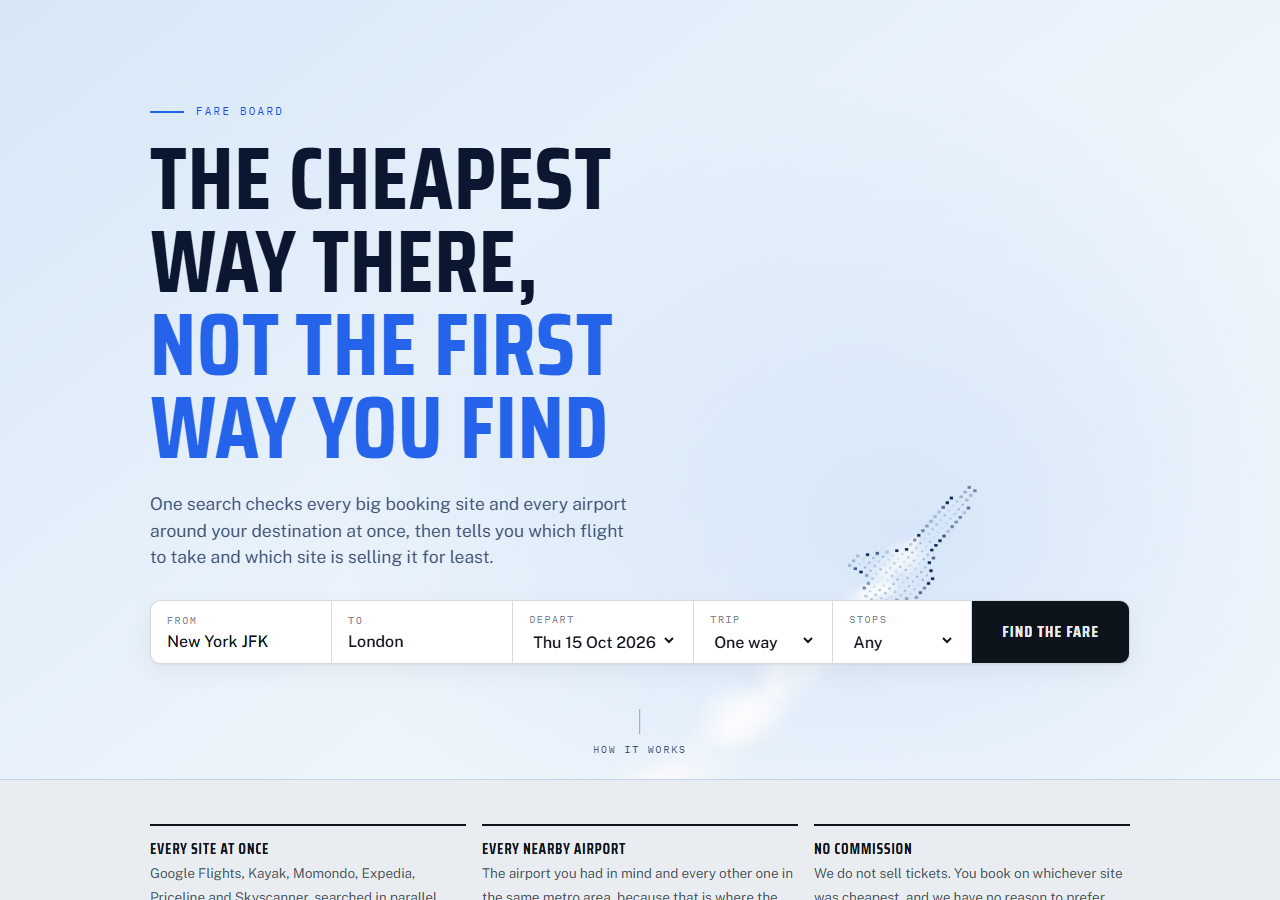
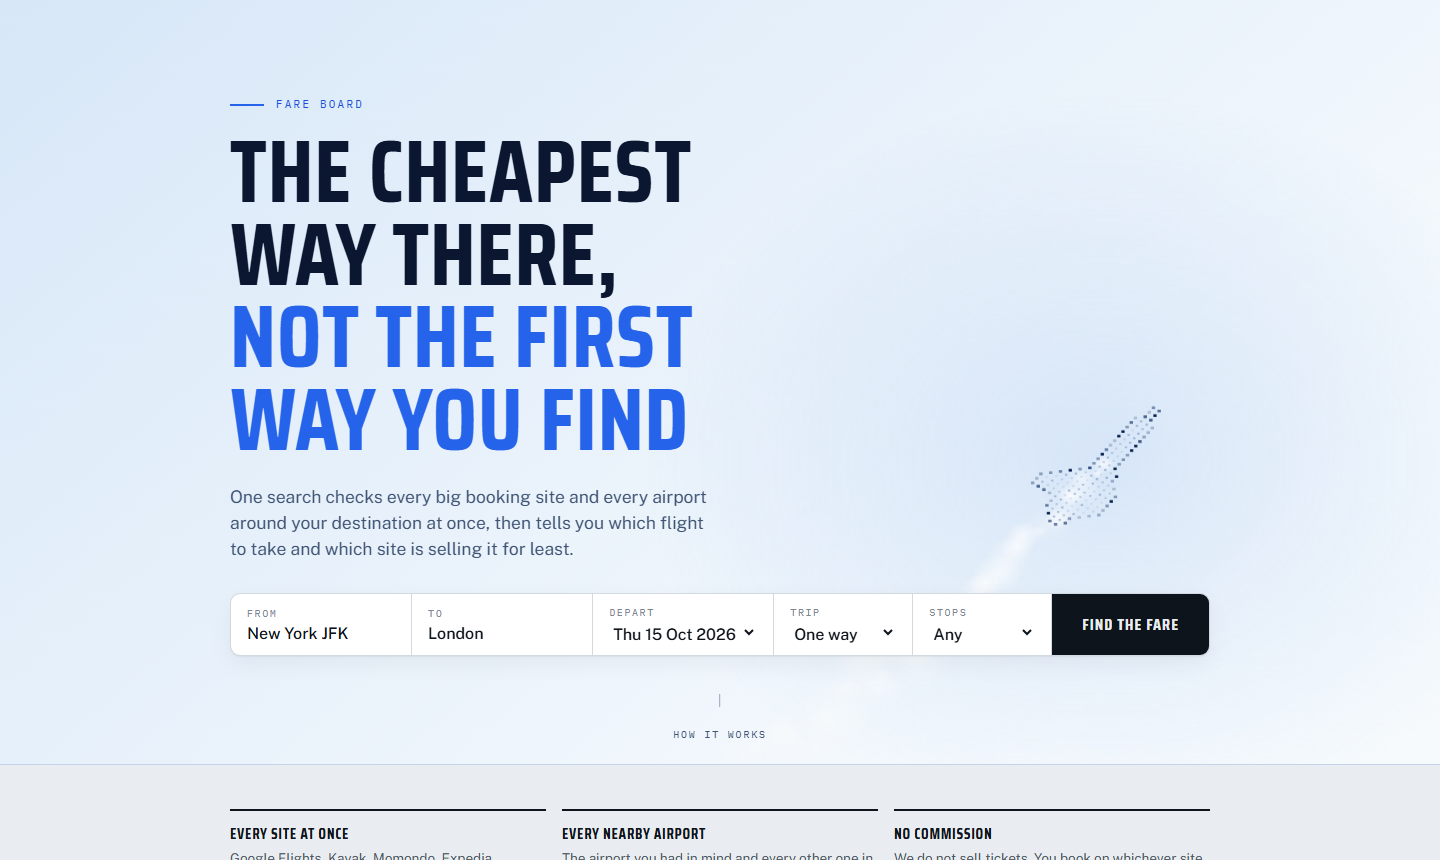
Make the hero loop continuous: no stall at the top, no reset
The pause was not performance at all, it was the animation maths:

  scene(Math.min((t / 780) % 1.15, 1))

u reaches 1 after 780 frames and Math.min then pins it there for the next
117 -- a two second freeze at the top -- before snapping back to the
bottom. Chasing frame cost last time never touched it.

Three fixes:

- Drive by wall clock, not a frame counter. A counter runs at whatever
  rate the display happens to have and lurches every time a frame is
  missed.
- Fade each climb in and out at the seam. The aircraft is already off
  canvas at both ends, so only the trail ever gave the wrap away.
- Fly two climbs half a cycle apart. Fading one alone leaves the sky
  genuinely empty for about 1.5s between an aircraft leaving the top and
  the next entering at the bottom, which still reads as a pause. With two,
  something is always on the way up.

Measured by sampling how much the canvas changes every 200ms across a
20s window: before, 21 of 98 samples showed no change at all and the
longest unbroken still run was 1.4s. After, one sample and 0.2s, with the
change per sample steady rather than spiking.

The second climb cost 20.1ms -> 26.4ms a frame at 1920x1080 dpr2, almost
all of it a second halo -- the largest alpha blend in the frame. Only the
climb actually lighting the sky draws one now, and a slightly smaller one,
which brings it to 17.9ms: better than before the second aircraft existed.

Claude-Session: https://claude.ai/code/session_01EMLBVdECybqViAWRes9Fjs

diff --git a/flight-price-map/trip.html b/flight-price-map/trip.html
@@ -655,8 +655,8 @@ form.finder {
     W = canvas.clientWidth; H = canvas.clientHeight;
     canvas.width = W * dpr; canvas.height = H * dpr;
     ctx.setTransform(dpr, 0, 0, dpr, 0, 0);
-    puffs = Array.from({length: 240}, (_, i) => ({
-      u: i / 240,
+    puffs = Array.from({length: 130}, (_, i) => ({
+      u: i / 130,
       off: (Math.random() - 0.5) * 30,
       rise: (Math.random() - 0.5) * 0.8,
       size: 5 + Math.random() * 15,
@@ -668,13 +668,27 @@ form.finder {
 
   const FAINT = 0.015;      // below this a puff cannot be seen, so skip it
 
-  function scene(u) {
-    ctx.globalAlpha = 1;
-    ctx.drawImage(backdrop, 0, 0, W, H);
+  const fade = u => Math.max(0, Math.min(1, u / 0.12, (1 - u) / 0.14));
+
+  // Two climbs, half a cycle apart. One aircraft alone leaves the sky empty
+  // for a second and a half between leaving the top and the next entering at
+  // the bottom, which reads as a pause and a reset. Overlapping them means
+  // something is always on the way up, and the wrap has nothing to give away.
+  const PHASES = [0, 0.5];
+
+  function flight(u, withHalo) {
+    const seam = fade(u);
+    if (seam < 0.02) return;               // wholly invisible, so no work
 
     const nose = path(u);
-    const R = Math.max(W, H) * 0.38;
-    ctx.drawImage(haloSprite, nose.x - R, nose.y - R, R * 2, R * 2);
+    // The halo is the largest alpha blend in the frame, so only the climb
+    // that is actually lighting the sky draws one; a second, fainter glow
+    // costs as much as the first and is not visible next to it.
+    if (withHalo) {
+      const R = Math.max(W, H) * 0.32;
+      ctx.globalAlpha = seam;
+      ctx.drawImage(haloSprite, nose.x - R, nose.y - R, R * 2, R * 2);
+    }
 
     // Walk back from the newest puff and stop at the first invisible one.
     // They only fade with age, so everything beyond it is invisible too --
@@ -684,7 +698,7 @@ form.finder {
     for (let i = last - 1; i >= 0; i--) {
       const puff = puffs[i];
       const age = (u - puff.u) / Math.max(u, 0.001);
-      const alpha = puff.a * pal.smokeMax * Math.pow(1 - age, 1.5);
+      const alpha = puff.a * pal.smokeMax * Math.pow(1 - age, 1.5) * seam;
       if (alpha < FAINT) break;
       const at = path(puff.u);
       const r = puff.size * (1 + age * 3.2);
@@ -694,7 +708,6 @@ form.finder {
                     at.y + puff.off * 0.4 + puff.rise * age * 90 - r,
                     r * 2, r * 2);
     }
-    ctx.globalAlpha = 1;
 
     // The aircraft, one dot per cell, rotated onto the tangent of the climb.
     const ahead = path(Math.min(u + 0.012, 1));
@@ -704,21 +717,30 @@ form.finder {
       const dx = (cell.c - CX) * DOT, dy = (cell.r - CY) * DOT;
       const x = nose.x + dx * cos - dy * sin;
       const y = nose.y + dx * sin + dy * cos;
-      const twinkle = 0.62 + 0.38 * Math.sin(t / 15 + cell.phase);
+      const twinkle = 0.62 + 0.38 * Math.sin(t / 260 + cell.phase);
       const d = cell.edge ? 3.4 : 2.4;
-      ctx.globalAlpha = (cell.edge ? 0.95 : 0.5) * twinkle;
+      ctx.globalAlpha = (cell.edge ? 0.95 : 0.5) * twinkle * seam;
       ctx.fillStyle = cell.edge ? pal.edge : pal.body;
       ctx.fillRect(x - d / 2, y - d / 2, d, d);
       if (cell.edge && twinkle > 0.92) {
-        ctx.globalAlpha = 0.9;
+        ctx.globalAlpha = 0.9 * seam;
         ctx.fillStyle = pal.core;
         ctx.fillRect(x - 1, y - 1, 2, 2);
       }
     }
+  }
+
+  function scene(u) {
+    ctx.globalAlpha = 1;
+    ctx.drawImage(backdrop, 0, 0, W, H);
+    const at = PHASES.map(phase => (u + phase) % 1);
+    const lead = at.reduce((best, v) => fade(v) > fade(best) ? v : best, at[0]);
+    for (const v of at) flight(v, v === lead);
     ctx.globalAlpha = 1;
   }
 
-  let slow = 0, lastAt = 0;
+  const CYCLE = 17000;              // ms for one climb, wall clock
+  let slow = 0, lastAt = 0, startAt = 0;
 
   function frame(now) {
     const gap = lastAt ? now - lastAt : 16;
@@ -728,8 +750,9 @@ form.finder {
     slow = gap > 34 ? slow + 1 : 0;
     if (slow > 120) { cancelAnimationFrame(raf); raf = null; scene(0.58); return; }
 
-    t += 1;
-    scene(Math.min((t / 780) % 1.15, 1));
+    if (!startAt) startAt = now;
+    t = now - startAt;
+    scene(((now - startAt) / CYCLE) % 1);
     raf = requestAnimationFrame(frame);
   }
 
@@ -738,7 +761,7 @@ form.finder {
     pal = isDark() ? NIGHT : DAY;
     size();
     if (still.matches) { scene(0.58); return; }   // one composed frame
-    slow = 0; lastAt = 0;
+    slow = 0; lastAt = 0; startAt = 0;
     raf = requestAnimationFrame(frame);
   }
 

diff --git a/flight-price-map/sky.py b/flight-price-map/sky.py
@@ -209,8 +209,8 @@ JS = """
     W = canvas.clientWidth; H = canvas.clientHeight;
     canvas.width = W * dpr; canvas.height = H * dpr;
     ctx.setTransform(dpr, 0, 0, dpr, 0, 0);
-    puffs = Array.from({length: 240}, (_, i) => ({
-      u: i / 240,
+    puffs = Array.from({length: 130}, (_, i) => ({
+      u: i / 130,
       off: (Math.random() - 0.5) * 30,
       rise: (Math.random() - 0.5) * 0.8,
       size: 5 + Math.random() * 15,
@@ -222,13 +222,27 @@ JS = """
 
   const FAINT = 0.015;      // below this a puff cannot be seen, so skip it
 
-  function scene(u) {
-    ctx.globalAlpha = 1;
-    ctx.drawImage(backdrop, 0, 0, W, H);
+  const fade = u => Math.max(0, Math.min(1, u / 0.12, (1 - u) / 0.14));
+
+  // Two climbs, half a cycle apart. One aircraft alone leaves the sky empty
+  // for a second and a half between leaving the top and the next entering at
+  // the bottom, which reads as a pause and a reset. Overlapping them means
+  // something is always on the way up, and the wrap has nothing to give away.
+  const PHASES = [0, 0.5];
+
+  function flight(u, withHalo) {
+    const seam = fade(u);
+    if (seam < 0.02) return;               // wholly invisible, so no work
 
     const nose = path(u);
-    const R = Math.max(W, H) * 0.38;
-    ctx.drawImage(haloSprite, nose.x - R, nose.y - R, R * 2, R * 2);
+    // The halo is the largest alpha blend in the frame, so only the climb
+    // that is actually lighting the sky draws one; a second, fainter glow
+    // costs as much as the first and is not visible next to it.
+    if (withHalo) {
+      const R = Math.max(W, H) * 0.32;
+      ctx.globalAlpha = seam;
+      ctx.drawImage(haloSprite, nose.x - R, nose.y - R, R * 2, R * 2);
+    }
 
     // Walk back from the newest puff and stop at the first invisible one.
     // They only fade with age, so everything beyond it is invisible too --
@@ -238,7 +252,7 @@ JS = """
     for (let i = last - 1; i >= 0; i--) {
       const puff = puffs[i];
       const age = (u - puff.u) / Math.max(u, 0.001);
-      const alpha = puff.a * pal.smokeMax * Math.pow(1 - age, 1.5);
+      const alpha = puff.a * pal.smokeMax * Math.pow(1 - age, 1.5) * seam;
       if (alpha < FAINT) break;
       const at = path(puff.u);
       const r = puff.size * (1 + age * 3.2);
@@ -248,7 +262,6 @@ JS = """
                     at.y + puff.off * 0.4 + puff.rise * age * 90 - r,
                     r * 2, r * 2);
     }
-    ctx.globalAlpha = 1;
 
     // The aircraft, one dot per cell, rotated onto the tangent of the climb.
     const ahead = path(Math.min(u + 0.012, 1));
@@ -258,21 +271,30 @@ JS = """
       const dx = (cell.c - CX) * DOT, dy = (cell.r - CY) * DOT;
       const x = nose.x + dx * cos - dy * sin;
       const y = nose.y + dx * sin + dy * cos;
-      const twinkle = 0.62 + 0.38 * Math.sin(t / 15 + cell.phase);
+      const twinkle = 0.62 + 0.38 * Math.sin(t / 260 + cell.phase);
       const d = cell.edge ? 3.4 : 2.4;
-      ctx.globalAlpha = (cell.edge ? 0.95 : 0.5) * twinkle;
+      ctx.globalAlpha = (cell.edge ? 0.95 : 0.5) * twinkle * seam;
       ctx.fillStyle = cell.edge ? pal.edge : pal.body;
       ctx.fillRect(x - d / 2, y - d / 2, d, d);
       if (cell.edge && twinkle > 0.92) {
-        ctx.globalAlpha = 0.9;
+        ctx.globalAlpha = 0.9 * seam;
         ctx.fillStyle = pal.core;
         ctx.fillRect(x - 1, y - 1, 2, 2);
       }
     }
+  }
+
+  function scene(u) {
+    ctx.globalAlpha = 1;
+    ctx.drawImage(backdrop, 0, 0, W, H);
+    const at = PHASES.map(phase => (u + phase) % 1);
+    const lead = at.reduce((best, v) => fade(v) > fade(best) ? v : best, at[0]);
+    for (const v of at) flight(v, v === lead);
     ctx.globalAlpha = 1;
   }
 
-  let slow = 0, lastAt = 0;
+  const CYCLE = 17000;              // ms for one climb, wall clock
+  let slow = 0, lastAt = 0, startAt = 0;
 
   function frame(now) {
     const gap = lastAt ? now - lastAt : 16;
@@ -282,8 +304,9 @@ JS = """
     slow = gap > 34 ? slow + 1 : 0;
     if (slow > 120) { cancelAnimationFrame(raf); raf = null; scene(0.58); return; }
 
-    t += 1;
-    scene(Math.min((t / 780) % 1.15, 1));
+    if (!startAt) startAt = now;
+    t = now - startAt;
+    scene(((now - startAt) / CYCLE) % 1);
     raf = requestAnimationFrame(frame);
   }
 
@@ -292,7 +315,7 @@ JS = """
     pal = isDark() ? NIGHT : DAY;
     size();
     if (still.matches) { scene(0.58); return; }   // one composed frame
-    slow = 0; lastAt = 0;
+    slow = 0; lastAt = 0; startAt = 0;
     raf = requestAnimationFrame(frame);
   }
 
